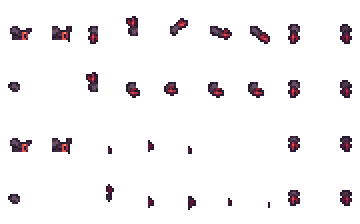
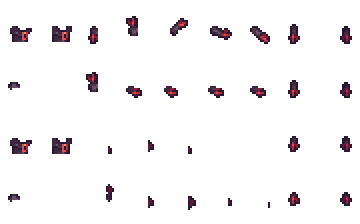
GSS relic & some armor sheet fixes

diff --git a/Items/Placeables/Furniture/BossRelics/GreatSandSharkRelic.cs b/Items/Placeables/Furniture/BossRelics/GreatSandSharkRelic.cs
@@ -1,0 +1,29 @@
+using Terraria;
+using Terraria.ID;
+using Terraria.ModLoader;
+
+namespace CalamityMod.Items.Placeables.Furniture.BossRelics
+{
+	public class GreatSandSharkRelic : ModItem
+	{
+		public override void SetStaticDefaults()
+		{
+			DisplayName.SetDefault("Great Sand Shark Relic");
+
+			SacrificeTotal = 1;
+		}
+
+		public override void SetDefaults()
+		{
+			// Vanilla has many useful methods like these, use them! This substitutes setting Item.createTile and Item.placeStyle aswell as setting a few values that are common across all placeable items
+			Item.DefaultToPlaceableTile(ModContent.TileType<Tiles.Furniture.BossRelics.GreatSandSharkRelic>(), 0);
+
+			Item.width = 30;
+			Item.height = 40;
+			Item.maxStack = 99;
+			Item.rare = ItemRarityID.Master;
+			Item.master = true; // This makes sure that "Master" displays in the tooltip, as the rarity only changes the item name color
+			Item.value = Item.buyPrice(0, 5);
+		}
+	}
+}

diff --git a/CalPlayer/CalamityPlayer.cs b/CalPlayer/CalamityPlayer.cs
@@ -5807,6 +5807,12 @@ namespace CalamityMod.CalPlayer
                 Player.neck = (sbyte)EquipLoader.GetEquipSlot(Mod, "XerocPlateMail", EquipType.Neck);
             }
 
+            if (Player.body == EquipLoader.GetEquipSlot(Mod, "DaedalusBreastplate", EquipType.Body))
+            {
+                //Put the faulds on the chestplate
+                Player.waist = (sbyte)EquipLoader.GetEquipSlot(Mod, "DaedalusBreastplate", EquipType.Waist);
+            }
+
             bool victideBreastplateVisible = Player.body == EquipLoader.GetEquipSlot(Mod, "VictideBreastplate", EquipType.Body);
             //Give the player faulds if either the body armor or the leggings are equipped
             if (victideBreastplateVisible || Player.legs == EquipLoader.GetEquipSlot(Mod, "VictideGreaves", EquipType.Legs))

diff --git a/Items/Armor/BrimflameRobes.cs b/Items/Armor/BrimflameRobes.cs
@@ -14,6 +14,14 @@ namespace CalamityMod.Items.Armor
             DisplayName.SetDefault("Brimflame Robes");
             Tooltip.SetDefault("5% increased magic damage and critical strike chance\n" +
                 "Reduces damage from touching lava");
+
+            if (Main.netMode == NetmodeID.Server)
+                return;
+
+            int equipSlot = EquipLoader.GetEquipSlot(Mod, Name, EquipType.Body);
+
+            ArmorIDs.Body.Sets.HidesTopSkin[equipSlot] = true;
+            ArmorIDs.Body.Sets.HidesArms[equipSlot] = true;
         }
 
         public override void SetDefaults()

diff --git a/Items/Armor/DesertProwlerShirt.cs b/Items/Armor/DesertProwlerShirt.cs
@@ -13,6 +13,14 @@ namespace CalamityMod.Items.Armor
             SacrificeTotal = 1;
             DisplayName.SetDefault("Desert Prowler Shirt");
             Tooltip.SetDefault("5% increased ranged critical strike chance");
+
+            if (Main.netMode == NetmodeID.Server)
+                return;
+
+            int equipSlot = EquipLoader.GetEquipSlot(Mod, Name, EquipType.Body);
+
+            ArmorIDs.Body.Sets.HidesTopSkin[equipSlot] = true;
+            ArmorIDs.Body.Sets.HidesArms[equipSlot] = true;
         }
 
         public override void SetDefaults()

diff --git a/Items/Armor/DaedalusBreastplate.cs b/Items/Armor/DaedalusBreastplate.cs
@@ -8,6 +8,14 @@ namespace CalamityMod.Items.Armor
     [AutoloadEquip(EquipType.Body)]
     public class DaedalusBreastplate : ModItem
     {
+        public override void Load()
+        {
+            if (Main.netMode == NetmodeID.Server)
+                return;
+
+            EquipLoader.AddEquipTexture(Mod, "CalamityMod/Items/Armor/DaedalusBreastplate_Waist", EquipType.Waist, this);
+        }
+
         public override void SetStaticDefaults()
         {
             SacrificeTotal = 1;

diff --git a/Tiles/Furniture/BossRelics/GreatSandSharkRelic.cs b/Tiles/Furniture/BossRelics/GreatSandSharkRelic.cs
@@ -1,0 +1,12 @@
+using CalamityMod.Tiles.BaseTiles;
+using Terraria.ModLoader;
+
+namespace CalamityMod.Tiles.Furniture.BossRelics
+{
+    public class GreatSandSharkRelic : BaseBossRelic
+    {
+        public override string RelicTextureName => "CalamityMod/Tiles/Furniture/BossRelics/GreatSandSharkRelic";
+
+        public override int AssociatedItem => ModContent.ItemType<Items.Placeables.Furniture.BossRelics.GreatSandSharkRelic>();
+    }
+}
